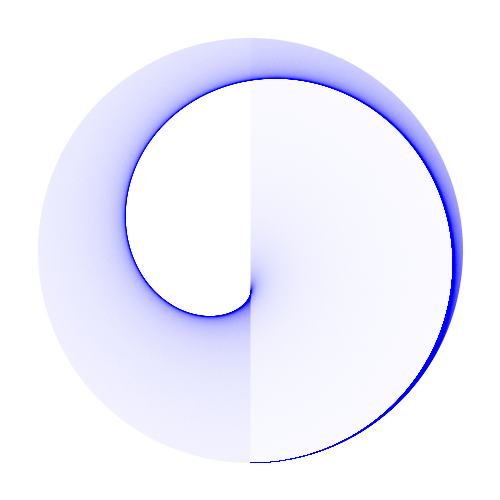
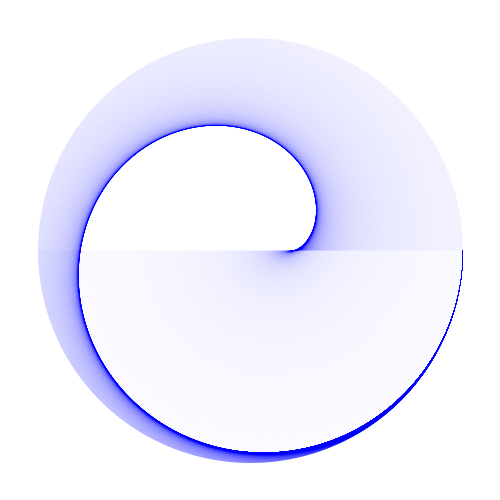
update helper for presentation

Changed region(s): [[0.06, 0.09, 0.93, 0.93], [0.81, 0.75, 0.84, 0.78], [0.75, 0.81, 0.78, 0.84]]

diff --git a/code_example/helper.py b/code_example/helper.py
@@ -4,23 +4,26 @@ import numpy as np
 from PIL import Image
 from math import cos, sin
 
-def saveImage(data, imageName, imageWidth, imageHeight):
+def saveImage(data, imageName, imageWidth, imageHeight, bg = None, fg = None):
     '''
     Convert and save data to PNG file. 
     '''
     maxCount = max(data)
-    bg = [255, 255, 255]
-    fg = [  0,   0, 255]
+    if bg == None:
+        bg = [255, 255, 255]
+    
+    if fg == None:  
+        fg = [  0,   0, 255]
     
     rgb = np.zeros((imageWidth, imageHeight, 3), 'uint8')
-    for x in range(imageWidth):
-        for y in range(imageHeight):
+    for y in range(imageHeight):
+        for x in range(imageWidth):
             cnt = data[y * imageWidth + x]
             alpha = min(cnt/maxCount * 10, 1.0)
                 
-            rgb[x, y, 0] = int(alpha * fg[0] + (1 - alpha) * bg[0] + .5)
-            rgb[x, y, 1] = int(alpha * fg[1] + (1 - alpha) * bg[1] + .5)
-            rgb[x, y, 2] = int(alpha * fg[2] + (1 - alpha) * bg[2] + .5)
+            rgb[y, x, 0] = int(alpha * fg[0] + (1 - alpha) * bg[0] + .5)
+            rgb[y, x, 1] = int(alpha * fg[1] + (1 - alpha) * bg[1] + .5)
+            rgb[y, x, 2] = int(alpha * fg[2] + (1 - alpha) * bg[2] + .5)
     
     img = Image.fromarray(rgb)
     img.save(imageName)
